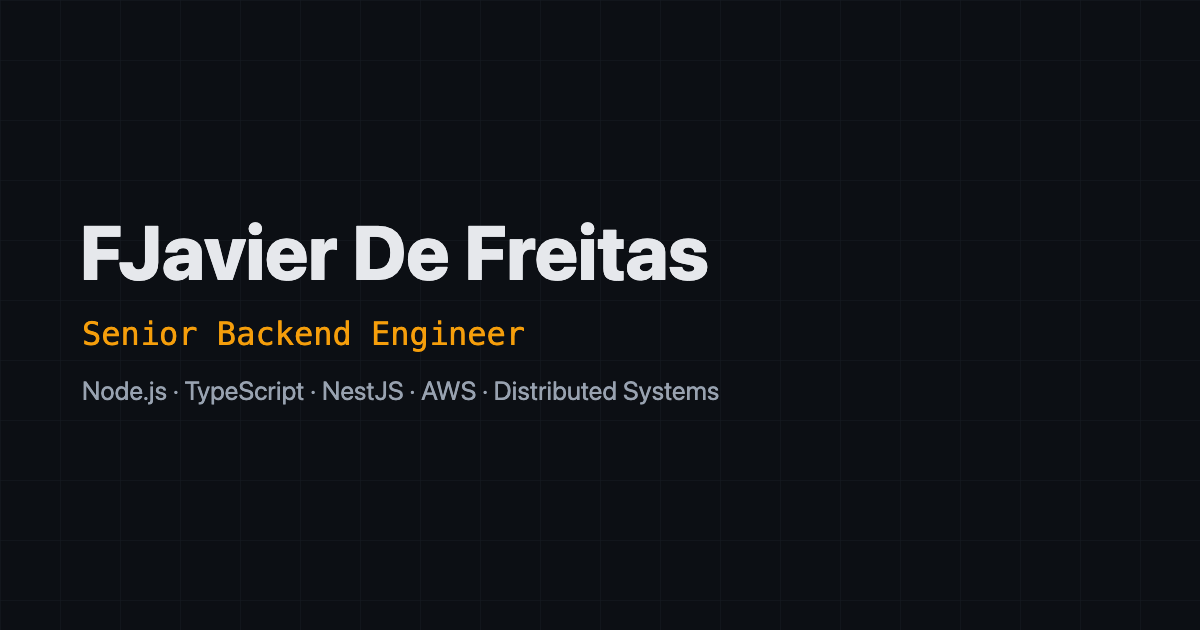
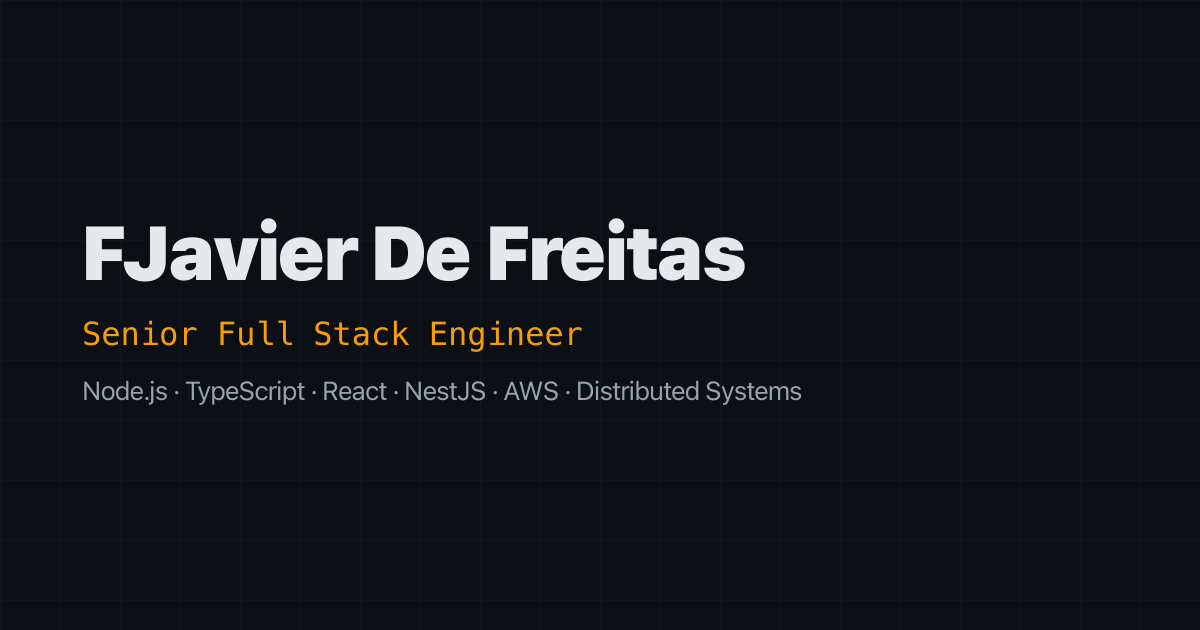
feat: update role to Senior Full Stack Engineer and enhance related descriptions across the site

diff --git a/src/utils/seo.ts b/src/utils/seo.ts
@@ -1,4 +1,19 @@
-import { NAME, ROLE, SITE_DESCRIPTION } from "../consts";
+import { NAME, ROLE, SITE_DESCRIPTION, SKILLS } from "../consts";
+
+const ALTERNATE_NAMES = [
+  "Senior Full Stack Developer",
+  "Senior Backend Engineer",
+  "Full Stack Engineer",
+];
+
+const KNOWS_ABOUT = [
+  ...SKILLS.languages,
+  ...SKILLS.frontend,
+  ...SKILLS.backend,
+  ...SKILLS.databases,
+  ...SKILLS.engineering,
+  ...SKILLS.cloud,
+];
 
 export function getPersonJsonLd(site: URL): string {
   const jsonLd = {
@@ -6,7 +21,9 @@ export function getPersonJsonLd(site: URL): string {
     "@type": "Person",
     name: NAME,
     jobTitle: ROLE,
+    alternateName: ALTERNATE_NAMES,
     description: SITE_DESCRIPTION,
+    knowsAbout: KNOWS_ABOUT,
     url: site.origin,
     sameAs: [
       "https://github.com/scorcherfjk",

diff --git a/src/consts.ts b/src/consts.ts
@@ -1,10 +1,10 @@
 export const SITE_TITLE = "Francisco Javier De Freitas";
 export const SITE_DESCRIPTION =
-  "Senior Backend Engineer with 9+ years building scalable distributed systems and cloud-native applications with Node.js and TypeScript.";
+  "Senior Full Stack Engineer with 9+ years building scalable distributed systems and cloud-native applications end to end with Node.js, TypeScript and React.";
 
 export const NAME = "Francisco Javier De Freitas";
 export const SHORT_NAME = "Francisco J. De Freitas";
-export const ROLE = "Senior Backend Engineer";
+export const ROLE = "Senior Full Stack Engineer";
 export const LOCATION = "Lima, Peru";
 export const YEARS_OF_EXPERIENCE = "9+";
 
